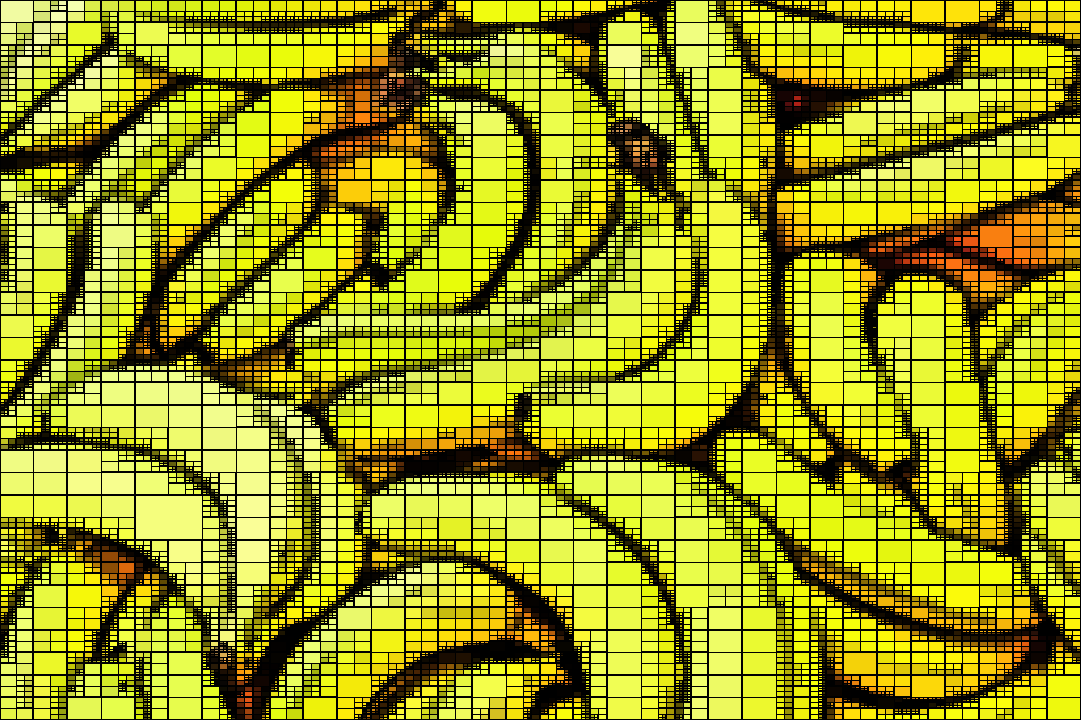
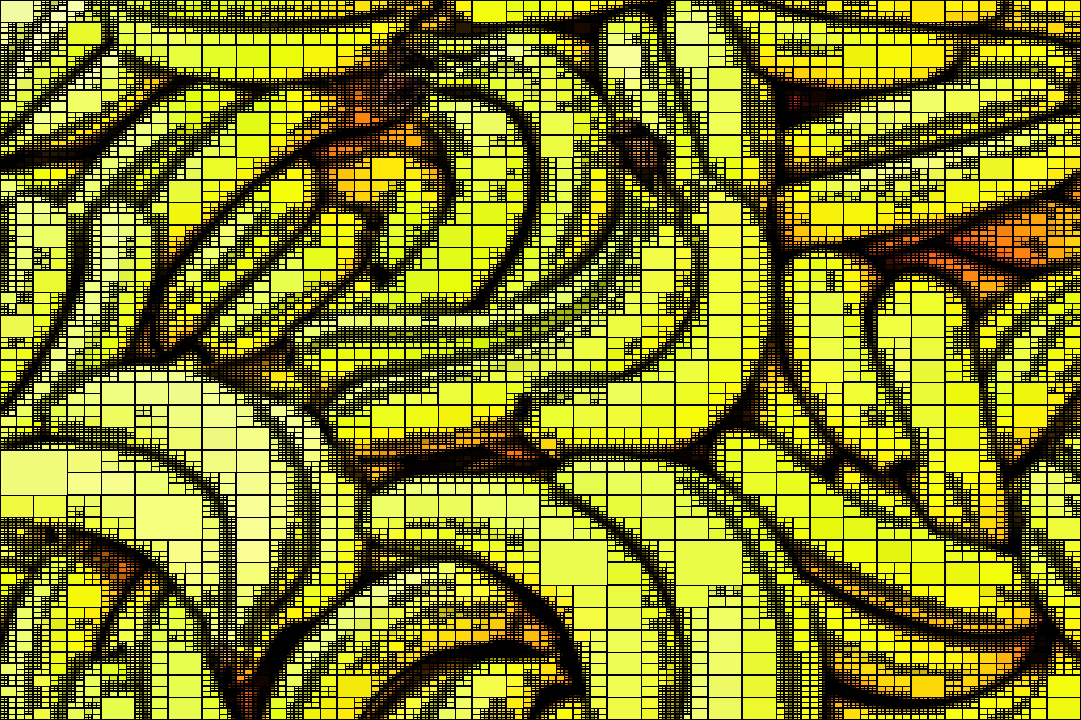
Updated docs and changed error function

diff --git a/quad.py b/quad.py
@@ -13,8 +13,9 @@ import imageio
 import imageio_ffmpeg
 import numpy as np
 from tqdm import tqdm
-from numba import njit, prange
 
+WIDTH_PERCENT = 2
+HEIGHT_PERCENT = 2
 
 def border(image):
     """
@@ -48,23 +49,19 @@ def rgb_mean(image):
     return r, g, b
 
 
-def error(image, error_type='sse'):
+def error(image):
     """
     Compute the error of a given quadrant.
     """
     if image.size == 0:
         return 0
     # Grayscale Image
+    h, w = image.shape[:2]
     image = np.sum(image * np.array([0.299, 0.587, 0.114]), axis=2)
-    if error_type == 'sse': # Sum of Squared Errors
-        return np.sum((image - image.mean()) ** 2)
-    elif error_type == 'minmax': # Max Difference
-        return image.max() - image.min()
-    else: # Max Difference of mean
-        return np.max(np.abs(image - image.mean()))
+    return np.sum((image - image.mean()) ** 2) / (h * w)
 
 
-def quad(iterations, image, edited, quads, set_border=True, error_type='sse'):
+def quad(iterations, image, edited, quads, set_border=True):
     """
     Split the given image into four quadrants.
     Update the edited image by coloring in the newly split quadrants to the average rgb
@@ -73,8 +70,10 @@ def quad(iterations, image, edited, quads, set_border=True, error_type='sse'):
     """
     if iterations <= 0:
         return image, edited
+    oh, ow = image.shape[:2]
     for _ in range(iterations):
         h, w = image.shape[:2]
+
         half_w = w // 2
         half_h = h // 2
 
@@ -91,16 +90,20 @@ def quad(iterations, image, edited, quads, set_border=True, error_type='sse'):
         if set_border:
             border(edited)   
 
-        quads.append((error(top_left, error_type=error_type), top_left, edited[:half_h, :half_w]))
-        quads.append((error(top_right, error_type=error_type), top_right, edited[:half_h, half_w:]))
-        quads.append((error(bottom_left, error_type=error_type), bottom_left, edited[half_h:, :half_w]))
-        quads.append((error(bottom_right, error_type=error_type), bottom_right, edited[half_h:, half_w:]))
+        if h > oh * HEIGHT_PERCENT / 100 and w > ow * WIDTH_PERCENT / 100:
+            quads.append((error(top_left), top_left, edited[:half_h, :half_w]))
+            quads.append((error(top_right), top_right, edited[:half_h, half_w:]))
+            quads.append((error(bottom_left), bottom_left, edited[half_h:, :half_w]))
+            quads.append((error(bottom_right), bottom_right, edited[half_h:, half_w:]))
 
-        data = max(quads, key=lambda x: x[0])
-        quads.remove(data)
+        if quads:
+            data = max(quads, key=lambda x: x[0])
+            quads.remove(data)
 
-        image = data[1]
-        edited = data[2]
+            image = data[1]
+            edited = data[2]
+        else:
+            break
 
     return data[1:]
 
@@ -116,7 +119,6 @@ def main():
     parser.add_argument('-b', '--border', action='store_true', help='Add borders to subimages.')
     parser.add_argument('-img', '--image', action='store_true', help='Save final output image.')
     parser.add_argument('-s', '--step', type=float, default=2.0, help='Only save a frame every `s^(iteration)` iterations. For use with --animate only.')
-    parser.add_argument('-e', '--error', type=str, default='sse', help='Error type: Sum of Squared Error (sse), Min-Max Difference (minmax) or Max Difference (max).')
     parser.add_argument('-f', '--frames', action='store_true', help='Save intermediary frames as images.')
     parser.add_argument('-au', '--audio', action='store_true', help='Add audio from the input file to the output file.')
     args = parser.parse_args()
@@ -140,7 +142,7 @@ def main():
             for frame in tqdm(video, total=int(data['fps'] * data['duration'] + 0.5)):
                 copy = frame.copy()
                 edited = copy
-                quad(args.iterations, frame, edited, quads, set_border=args.border, error_type=args.error)
+                quad(args.iterations, frame, edited, quads, set_border=args.border)
                 writer.send(edited)
                 quads.clear()
 
@@ -156,7 +158,7 @@ def main():
         if args.animate:
             with imageio.save(args.output, fps=args.fps) as writer:
                 for i in tqdm(range(args.iterations)):
-                    image, edited = quad(int(args.step ** i), image, edited, quads, set_border=args.border, error_type=args.error)
+                    image, edited = quad(int(args.step ** i), image, edited, quads, set_border=args.border)
 
                     writer.append_data(copy)
                     if args.frames:
@@ -165,7 +167,7 @@ def main():
             if args.image:
                 imageio.imsave(f'{args.output.rsplit(".", 1)[0]}_quad.png', copy)
         else:
-            quad(args.iterations, image, edited, quads, set_border=args.border, error_type=args.error)
+            quad(args.iterations, image, edited, quads, set_border=args.border)
             imageio.imsave(args.output, copy)
 
 

diff --git a/README.md b/README.md
@@ -8,16 +8,14 @@ Image Segmentation Animation using QuadTree concepts.
 
 ## Images
 
-<img src="Results/bananas.jpg" alt="Bananas" />
 <img src="Results/bananas_quad.png" alt="Segmented Bananas" />
-<img src="Results/bananas.gif" alt="Bananas GIF" />
-<img src="Results/donuts.jpg" alt="Donuts" />
-<img src="Results/donuts_quad.png" alt="Segmented Donuts" />
-<img src="Results/donuts.gif" alt="Donuts GIF" />
+<img src="Results/butterfly_quad.png" alt="Segmented Image of a Butterfly" />
+<img src="Results/canyon_quad.png" alt="Segmented Image of a Canyon" />
+<img src="Results/rocks_quad.png" alt="Segmented Image of some Rocks" />
 
 ## Video
 
-<img src="Results/columbo.gif" alt="Quadtree Video Example" />
+<img src="Results/wind.gif" alt="Wind Turbines Video" />
 
 ## Usage
 
@@ -41,8 +39,6 @@ optional arguments:
   -b, --border          Add borders to subimages.
   -img, --image         Save final output image.
   -s STEP, --step STEP  Only save a frame every `s^(iteration)` iterations. For use with --animate only.
-  -e ERROR, --error ERROR
-                        Error type: Sum of Squared Error (sse), Min-Max Difference (minmax) or Max Difference (max).
   -f, --frames          Save intermediary frames as images.
   -au, --audio          Add audio from the input file to the output file.
 ```
